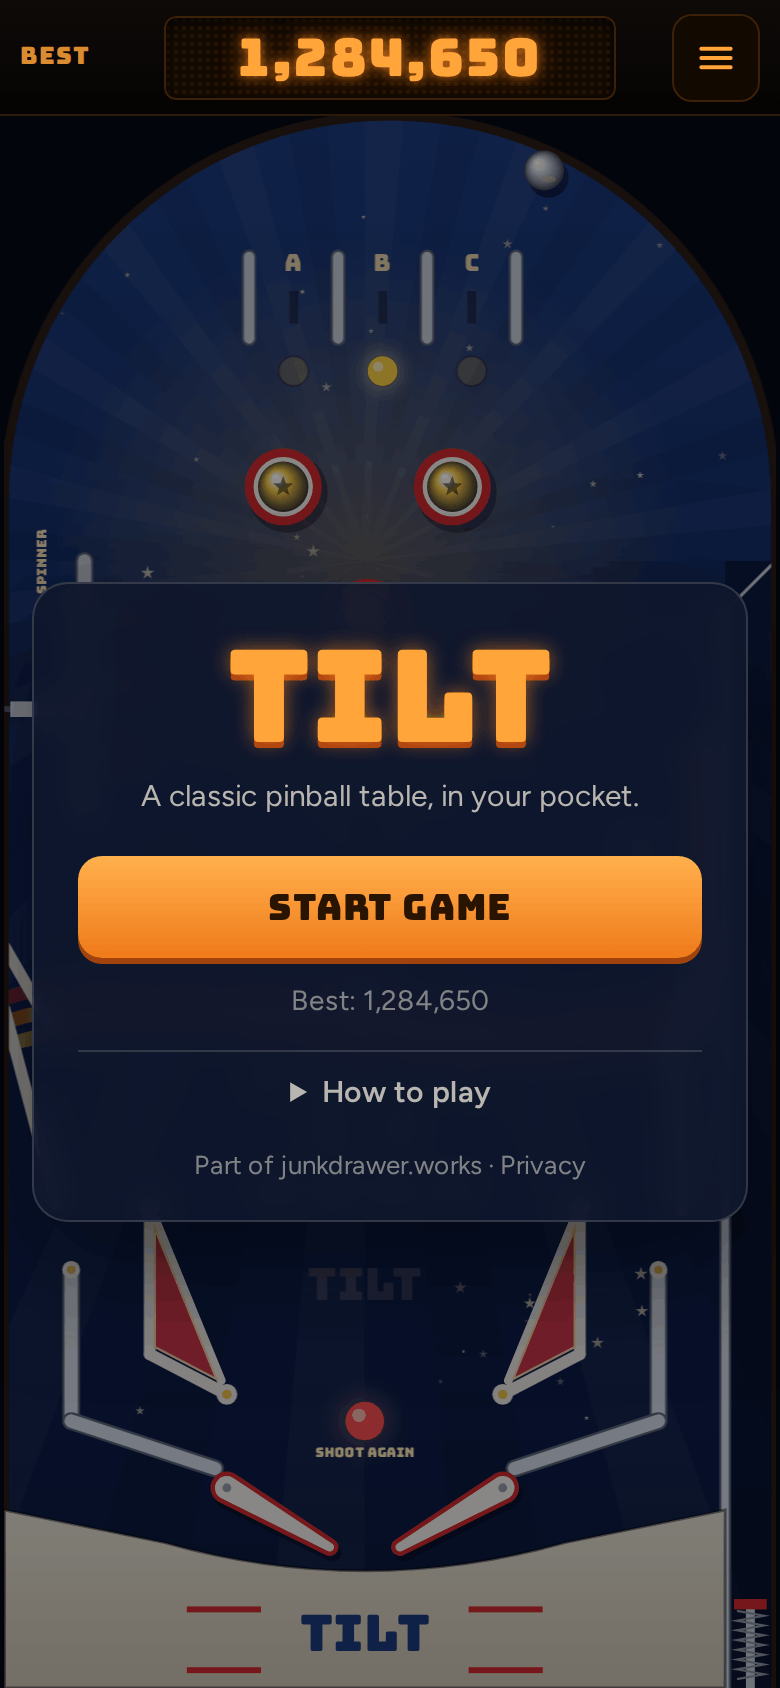
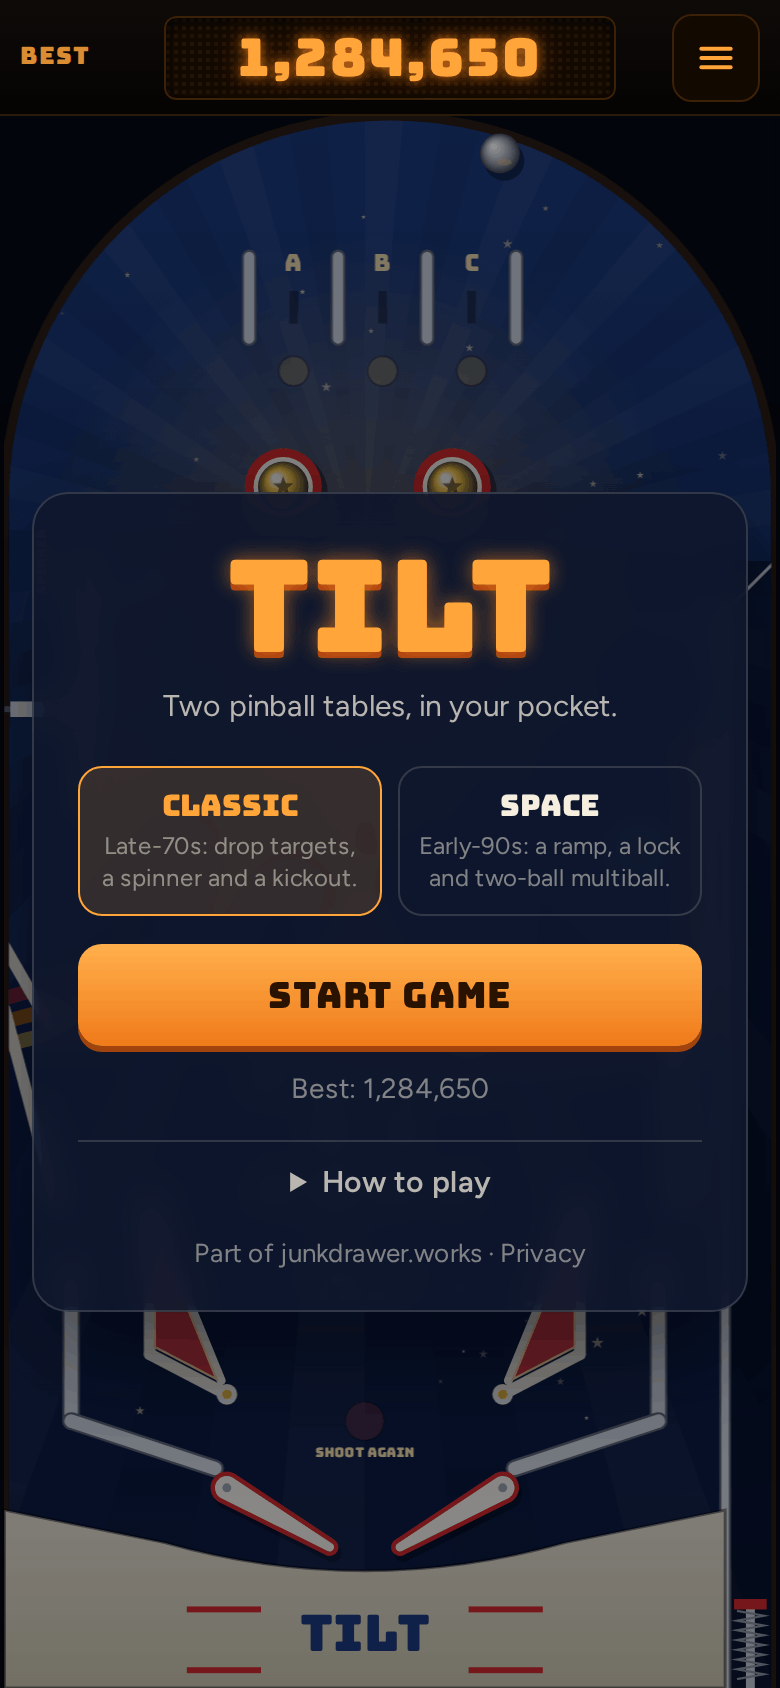
Say there are two tables, and show Space in the README
The title card now says "Two pinball tables, in your pocket." and the
page's description names both. The README tells you how each table
plays, with the shared controls first, Classic's rules and then
Space's: the ramp, the dock and its lock, multiball and the jackpot,
the skill shot, the planets and the bonus. A new screenshot shows a
game of Space with a ball locked under the ramp and another riding
over it, and the title screenshot now shows the table picker.

Claude-Session: https://claude.ai/code/session_016biFiKvSdHXsBupN2pN9bt

diff --git a/index.html b/index.html
@@ -4,7 +4,7 @@
   <meta charset="utf-8">
   <meta name="viewport" content="width=device-width, initial-scale=1, viewport-fit=cover">
   <title>Tilt</title>
-  <meta name="description" content="A pinball machine you can play on your phone: flippers, pop bumpers, drop targets, a spinner and a skill shot, with the rules of an early-80s table.">
+  <meta name="description" content="Two pinball machines you can play on your phone: Classic, with the drop targets and spinner of an early-80s table, and Space, with the ramp, lock and two-ball multiball of an early-90s one.">
   <meta property="og:title" content="Tilt">
   <meta property="og:description" content="A classic pinball table, in your pocket.">
   <meta property="og:image" content="https://tilt.junkdrawer.works/og.png">
@@ -37,7 +37,7 @@
   <section class="sheet" id="title" aria-labelledby="titleH">
     <div class="card">
       <h1 id="titleH">Tilt</h1>
-      <p class="lede">A classic pinball table, in your pocket.</p>
+      <p class="lede">Two pinball tables, in your pocket.</p>
       <fieldset class="tables" id="tables" hidden><legend>Table</legend></fieldset>
       <button type="button" class="go" id="startBtn">Start game</button>
       <p class="best" id="bestLine"></p>

diff --git a/README.md b/README.md
@@ -2,12 +2,14 @@
 
 **Play it: [tilt.junkdrawer.works](https://tilt.junkdrawer.works/)**
 
-**A classic pinball table you can play on your phone.** It's laid out and scored like an early-80s solid-state machine: three top lanes, three pop bumpers, a kickout, a spinner orbit, standup targets and a bank of drop targets. The ball runs on real-ish physics, measured in millimetres on a table the size of a real playfield: it rolls, skids when it's kicked, and plays at three-quarter speed so it's easy to follow on a phone (the flippers stay full speed).
+**Two pinball tables you can play on your phone.** Classic is laid out and scored like an early-80s solid-state machine: three top lanes, three pop bumpers, a kickout, a spinner orbit, standup targets and a bank of drop targets. Space is an early-90s table: a ramp that carries the ball up and over the playfield, a lock under it for two-ball multiball, and a third flipper up the right side. Pick one on the title card. The ball runs on real-ish physics, measured in millimetres on a table the size of a real playfield: it rolls, skids when it's kicked, and plays at three-quarter speed so it's easy to follow on a phone (the flippers stay full speed).
 
 <p align="center">
-  <img src="docs/phone-title.png" alt="The title card over the Classic table, with a Start game button and the best score" width="250">
+  <img src="docs/phone-title.png" alt="The title card over the Classic table, with the two tables to pick from, a Start game button and the best score" width="240">
   &nbsp;
-  <img src="docs/phone-play.png" alt="A game in progress: the ball among the lit pop bumpers, lanes A and C lit, bonus 14 and a 3x multiplier lit" width="250">
+  <img src="docs/phone-play.png" alt="A game of Classic: the ball among the lit pop bumpers, lanes A and C lit, bonus 14 and a 3x multiplier lit" width="240">
+  &nbsp;
+  <img src="docs/phone-space.png" alt="A game of Space: one ball locked in the dock under the ramp, another riding the ramp over it, the lock lit and a 2x multiplier lit" width="240">
 </p>
 
 ## How it plays
@@ -15,12 +17,26 @@
 - **Flip** by tapping and holding the left or right half of the screen. On a keyboard: Z and / (or the Shift keys, or ← →).
 - **Launch** by holding the Launch button and letting go: the longer you hold, the harder the shot. Keyboard: hold Space or ↓.
 - **Nudge** with a quick swipe up, or ↑. Nudge too often and you get a Danger warning, then the machine tilts: the flippers go dead and you lose the bonus.
+- **The bonus** is counted, times the multiplier, when the ball drains. A ball that drains in the first few seconds is given back.
+- No account and no server. Each table keeps its own top five scores in your browser. It works offline and installs to a phone's home screen.
+
+### Classic
+
 - **Skill shot.** The flashing top lane is worth 25,000 if the plunge drops into it. The flippers move it left and right.
 - **Top lanes** A, B and C raise the bonus multiplier (up to 5×) and light the bumpers at 1,000 a pop.
 - **Standups** on the orbit rail light the spinner at 1,000 a spin.
 - **Drop targets** light an extra ball at the kickout in the middle; after that, a full bank is worth 25,000.
-- **The bonus** counts up as you hit things and is counted down, times the multiplier, when the ball drains. A ball that drains in the first few seconds is given back.
-- No account and no server. Your top five scores stay in your browser. It works offline and installs to a phone's home screen.
+- **The bonus** counts up as you hit things.
+
+### Space
+
+- **The ramp** is a shot for the left flipper. It climbs over the playfield, turns round a hairpin and comes back down a wire to the left flipper, for 10,000. It lights the lock and raises the jackpot.
+- **The upper flipper** works with the right one. Catch the ball on it and shoot the dock under the ramp: with the lock lit the ball is locked there and another is served. Light the lock again and shoot the dock for two-ball **multiball**.
+- **In multiball** the ramp scores the jackpot and the dock lights it again. The jackpot starts at 100,000 and each ramp made outside multiball adds 10,000, up to 250,000. Multiball starts with ten seconds of ball save.
+- **Skill shot.** Launch softly onto the upper flipper and shoot the dock for 25,000.
+- **Top lanes** U, F and O raise the bonus multiplier (up to 5×). The flippers move the lit lanes.
+- **Planets.** Each ramp lights one. All eight light an extra ball at the left orbit, once a game; after that they're worth 50,000.
+- **The bonus** is 2,000 for each ramp and 1,000 for each orbit made with that ball.
 
 ## Running it
 
@@ -44,6 +60,7 @@ To put it online with GitHub Pages: **Settings → Pages → Build and deploymen
 - `js/game.js`: the machine every table shares: serving balls, the flippers, ball save, tilt, extra balls, locks and multiball, the end of a ball and of the game, and the demo's autopilot.
 - `js/tables.js`: the list of tables. Each table is a folder in `js/tables/` with its own layout, rules, drawing and skins.
 - `js/tables/classic/`: the Classic table: `layout.js` (where everything is, in millimetres), `rules.js` (what everything scores, its lamps and bonus), `draw.js` (its playfield, lamps and toys) and `skins.js` (colours, names and artwork). `index.js` puts them together, with its rules for How to play.
+- `js/tables/space/`: the Space table, in the same five files. Its ramp, the dock and the lift that puts a ball back on the ramp are in `layout.js` and `rules.js`.
 - `js/settings.js`: the machine's adjustments (slope, game speed, flipper strength, ball save, tilt warnings), which difficulty levels will build on.
 - `js/render.js`: fits a table to the canvas and draws what every table has (rails, posts, flippers, the ball, the plunger); `js/sound.js`: every sound, made in the browser with Web Audio.
 - `js/main.js`: the page: controls, menus, the table picker, high scores (each table keeps its own) and the clock.
